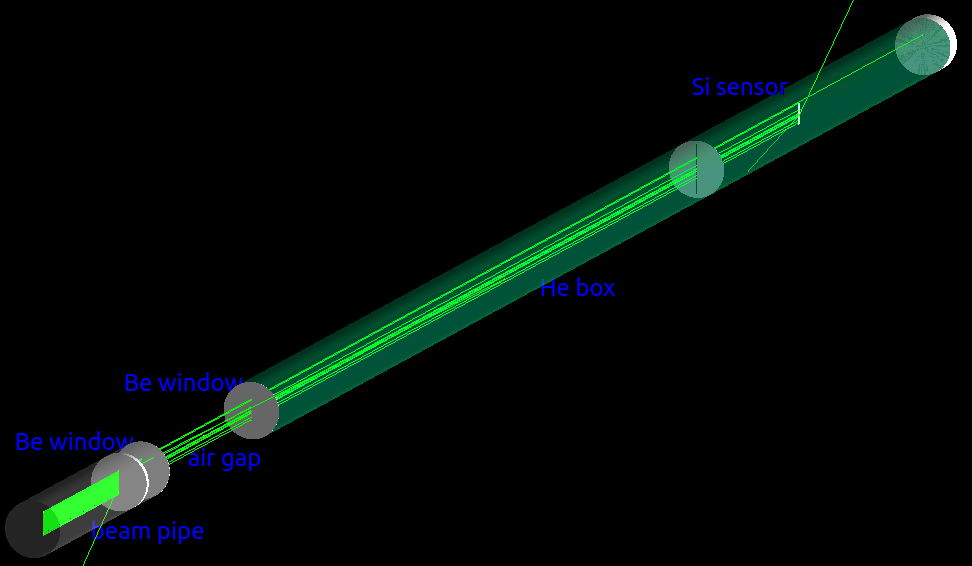
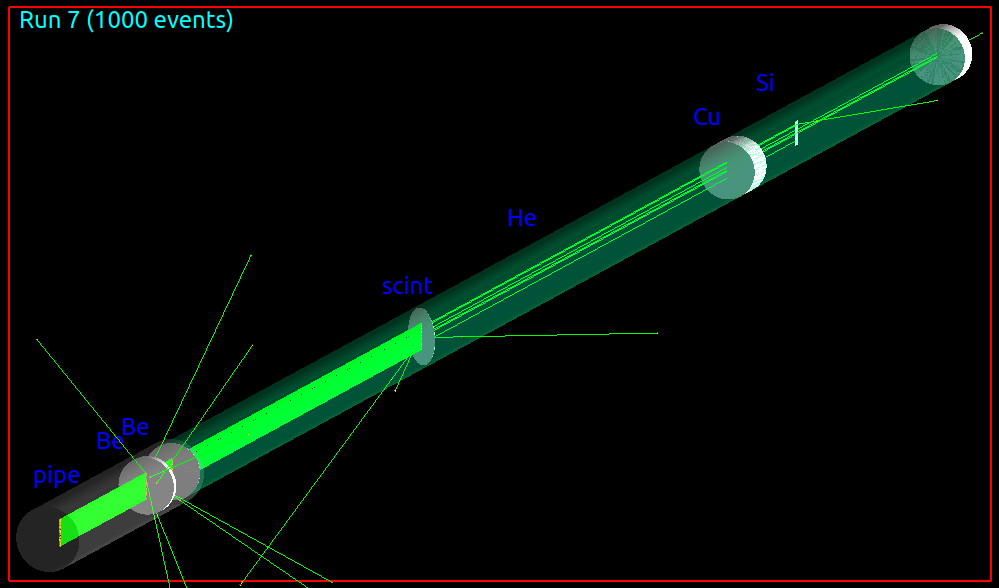
removed air gap; made objects in pipe slightly smaller than pipe

diff --git a/src/B1DetectorConstruction.cc b/src/B1DetectorConstruction.cc
@@ -93,25 +93,22 @@ G4VPhysicalVolume* B1DetectorConstruction::Construct() {
 	#endif
 //	G4double diamond_substrate_thickness = 800.*um; // since phase2
 //	G4double gold_mask_thickness = 20.*um;
-	G4double Be_window_dimension_1 = 0.2*mm; // nominal; HER=8743/695/340 LER=21459/1282/860
-	G4double Be_window_dimension_2 = 0.2*mm; // nominal; HER=8743/695/340 LER=21459/1282/860
-	G4double air_gap_dimension = 10.*cm; // nominal; HER=8743/695/340 LER=21459/1282/860
-	//G4double air_gap_dimension = 1.*cm; // enhancement; HER=8741/775/392 LER=21459/1640/1163
+	G4double Be_window_dimension = 0.2*mm; // nominal; HER=8743/695/340 LER=21459/1282/860
 //	G4double neck_dimension_of_box = 50.*mm + 108.*mm;
-	G4double position_of_vacuum = 0. - vacuum_dimension/2. - Be_window_dimension_1 - air_gap_dimension - Be_window_dimension_2;
+	G4double position_of_vacuum = 0. - vacuum_dimension/2. - Be_window_dimension;
 	//G4double hypotenuse = sqrt(6.9**2.+14.**2.); // 15.61
 	G4double env_diameter = 16.*mm;
+	G4double object_radius = env_diameter/2. - 1.*mm;
 	#ifdef REAL_XRM_SITUATION
 	G4double inside_dimension_of_box = 614.*mm;
-	G4double position_of_Be_window_1 = 0. - Be_window_dimension_1/2. - air_gap_dimension - Be_window_dimension_2;
-	G4double position_of_Be_window_2 = 0. - Be_window_dimension_2/2.;
+	G4double position_of_Be_window = 0. - Be_window_dimension/2.;
 	G4double position_of_He_envelope = inside_dimension_of_box/2.;
 	G4double position_of_first_part_of_sensor = - inside_dimension_of_box/2. + 50.*cm; // nominal
 	//G4double position_of_first_part_of_sensor = - inside_dimension_of_box/2. + 5.*cm; // in He, this doesn't seem to make a difference
 	G4double env_sizeZ = inside_dimension_of_box;
 	#endif
 //	G4cout << "position_of_vacuum " << position_of_vacuum << G4endl;
-//	G4cout << "position_of_Be_window_1 " << position_of_Be_window_1 << G4endl;
+//	G4cout << "position_of_Be_window " << position_of_Be_window << G4endl;
 //	G4cout << "position_of_He_envelope " << position_of_He_envelope << G4endl;
 //	G4cout << "position_of_first_part_of_sensor " << position_of_first_part_of_sensor << G4endl;
 	// Option to switch on/off checking of volumes overlaps
@@ -158,8 +155,8 @@ G4VPhysicalVolume* B1DetectorConstruction::Construct() {
 
 	// all Be cylinders:
 	G4Material* Be_mat = nist->FindOrBuildMaterial("G4_Be");
-	G4double shape0_rmina =  0.*cm, shape0_rmaxa = env_diameter/2.;
-	G4double shape0_rminb =  0.*cm, shape0_rmaxb = env_diameter/2.;
+	G4double shape0_rmina =  0.*cm, shape0_rmaxa = object_radius;
+	G4double shape0_rminb =  0.*cm, shape0_rmaxb = object_radius;
 	G4double shape0_phimin = 0.*deg, shape0_phimax = 360.*deg;
 
 	G4Material* Si_mat = nist->FindOrBuildMaterial("G4_Si");
@@ -186,8 +183,8 @@ G4VPhysicalVolume* B1DetectorConstruction::Construct() {
 	sensitiveObjectVector.push_back(objet);
 	#ifdef REAL_XRM_SITUATION
 		// select real XRM situation or bulk silicon
-		pos0 = G4ThreeVector(0, 0, position_of_Be_window_1);
-		G4double shape0_hz = Be_window_dimension_1/2.;
+		pos0 = G4ThreeVector(0, 0, position_of_Be_window);
+		G4double shape0_hz = Be_window_dimension/2.;
 		G4Cons* solidshape0 = new G4Cons("shape0", shape0_rmina, shape0_rmaxa, shape0_rminb, shape0_rmaxb, shape0_hz, shape0_phimin, shape0_phimax);
 		G4LogicalVolume* logicshape0 = new G4LogicalVolume(solidshape0,         //its solid
 		                      Be_mat,          //its material
@@ -195,23 +192,7 @@ G4VPhysicalVolume* B1DetectorConstruction::Construct() {
 		objet = new sensitiveObject(0,                       //no rotation
 		                  pos0,                    //at position
 		                  logicshape0,             //its logical volume
-		                  "BeWindow1",                //its name
-		                  logicWorld,                //its mother  volume
-		                  false,                   //no boolean operation
-		                  0,                       //copy number
-		                  checkOverlaps);          //overlaps checking
-		sensitiveObjectVector.push_back(objet);
-		//G4Material* glass_mat = nist->FindOrBuildMaterial("G4_GLASS_PLATE"); // suppression; HER=8743/241/57 LER=24459/268/83
-		pos0 = G4ThreeVector(0, 0, position_of_Be_window_2);
-		G4double shape4_hz = Be_window_dimension_2/2.;
-		G4Cons* solidshape4 = new G4Cons("shape4", shape0_rmina, shape0_rmaxa, shape0_rminb, shape0_rmaxb, shape4_hz, shape0_phimin, shape0_phimax);
-		G4LogicalVolume* logicshape4 = new G4LogicalVolume(solidshape4,         //its solid
-		                      Be_mat,          //its material
-		                      "shape4");           //its name
-		objet = new sensitiveObject(0,                       //no rotation
-		                  pos0,                    //at position
-		                  logicshape4,             //its logical volume
-		                  "BeWindow2",                //its name
+		                  "BeWindow",                //its name
 		                  logicWorld,                //its mother  volume
 		                  false,                   //no boolean operation
 		                  0,                       //copy number
@@ -220,7 +201,7 @@ G4VPhysicalVolume* B1DetectorConstruction::Construct() {
 		// Envelope
 		G4Material* env_mat = nist->FindOrBuildMaterial("G4_He"); // nominal; HER=8743/695/340 LER=21459/1282/860
 		//G4Material* env_mat = nist->FindOrBuildMaterial("G4_AIR"); // suppression; HER=8743/447/162 LER=21459/597/268
-		G4Tubs *solidEnv = new G4Tubs("Envelope", 0., env_diameter/2., 0.5*env_sizeZ, 0., 2.*M_PI);
+		G4Tubs *solidEnv = new G4Tubs("Envelope", 0., object_radius, 0.5*env_sizeZ, 0., 2.*M_PI);
 		G4LogicalVolume *logicEnv = new G4LogicalVolume(solidEnv,            //its solid
 		                      env_mat,             //its material
 		                      "Envelope");         //its name
@@ -269,7 +250,7 @@ G4VPhysicalVolume* B1DetectorConstruction::Construct() {
 			#endif
 			G4ThreeVector scintillator_pos = G4ThreeVector(0, 0, 20.*cm - env_sizeZ/2.);
 			G4double scintillator_length = 100.*um;
-			G4Tubs *scintillator_solidshape = new G4Tubs(name, 0., env_diameter/2., scintillator_length/2., 0., 2.*M_PI);
+			G4Tubs *scintillator_solidshape = new G4Tubs(name, 0., object_radius, scintillator_length/2., 0., 2.*M_PI);
 			G4LogicalVolume *scintillator_logical_volume = new G4LogicalVolume(scintillator_solidshape, scint, name);
 			objet = new sensitiveObject(yRot,
 			                  scintillator_pos,                    //at position
@@ -317,7 +298,7 @@ G4VPhysicalVolume* B1DetectorConstruction::Construct() {
 			//G4double copper1_length = 50.*um; // HER=8743/42/15 LER=21459/56/26
 			G4double copper_slit1_length = 9.525*mm; // HER=8743/123/44 LER=21459/148/79
 			//G4double copper1_length = 0.*um; // HER=8743/690/339 LER=21459/1285/868
-			G4Tubs *copper_slit1_cyl_solidshape = new G4Tubs("copper_slit1_cyl", 0., env_diameter/2., copper_slit1_length/2., 0., 2.*M_PI);
+			G4Tubs *copper_slit1_cyl_solidshape = new G4Tubs("copper_slit1_cyl", 0., object_radius, copper_slit1_length/2., 0., 2.*M_PI);
 			G4Box *copper_slit1_box_solidshape = new G4Box("copper_slit1_box", 75.*um/2., 14.*mm/2., copper_slit1_length);
 			G4VSolid *copper_slit1_solidshape = new G4SubtractionSolid("copper_slit1", copper_slit1_cyl_solidshape, copper_slit1_box_solidshape, 0, G4ThreeVector(0., 0., 0.));
 			G4LogicalVolume *copper_slit1_logical_volume = new G4LogicalVolume(copper_slit1_solidshape, copper_mat, name);
@@ -392,7 +373,7 @@ G4VPhysicalVolume* B1DetectorConstruction::Construct() {
 		G4double beamdump_Si_dz = 6.*mm;
 		G4double position_of_beamdump_Si = inside_dimension_of_box + beamdump_Si_dz/2.;
 		G4ThreeVector pos6 = G4ThreeVector(0, 0, position_of_beamdump_Si);
-		G4Tubs* beamdump_Si_solidshape = new G4Tubs("beamdump", 0., env_diameter/2., 0.5*beamdump_Si_dz, 0., 2.*M_PI);
+		G4Tubs* beamdump_Si_solidshape = new G4Tubs("beamdump", 0., object_radius, 0.5*beamdump_Si_dz, 0., 2.*M_PI);
 		G4LogicalVolume* beamdump_Si_logical_volume = new G4LogicalVolume(beamdump_Si_solidshape,         //its solid
 		                      Si_mat,          //its material
 		                      "beamdump");           //its name
@@ -417,7 +398,7 @@ G4VPhysicalVolume* B1DetectorConstruction::Construct() {
 		G4double position_of_bulk_sensor = 0.;
 		//G4double position_of_bulk_sensor = - inside_dimension_of_box/2.;
 		G4ThreeVector pos3 = G4ThreeVector(0, 0, position_of_bulk_sensor);
-		G4Tubs* solidShape3 = new G4Tubs("Envelope", 0., env_diameter/2., 0.5*shape3_dz, 0., 2.*M_PI);
+		G4Tubs* solidShape3 = new G4Tubs("Envelope", 0., object_radius, 0.5*shape3_dz, 0., 2.*M_PI);
 		G4LogicalVolume* logicShape3 = new G4LogicalVolume(solidShape3,         //its solid
 		                      Si_mat,          //its material
 		                      "Envelope");           //its name
